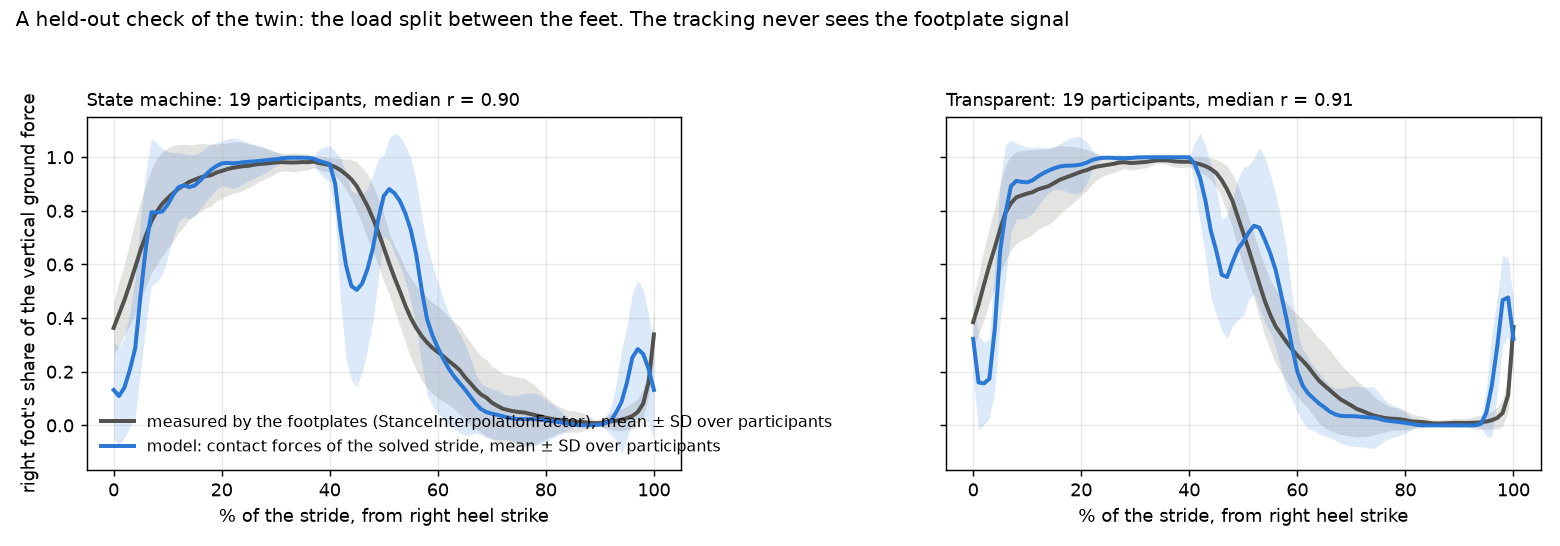
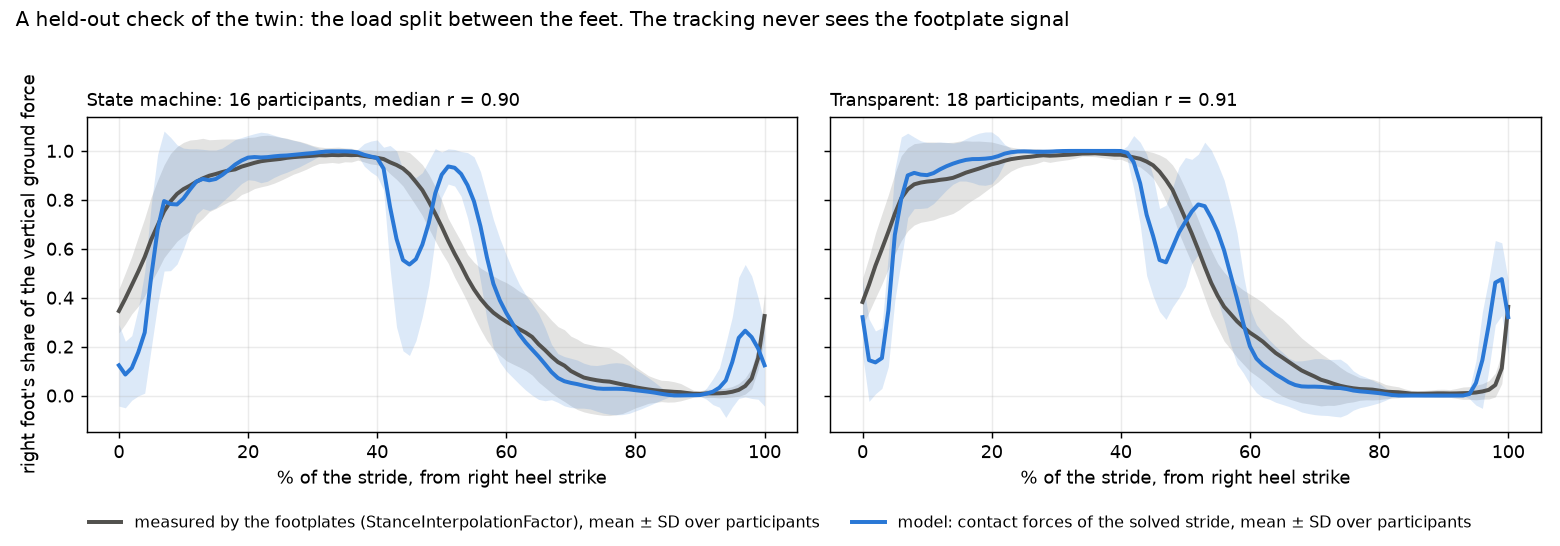
K6: the load-split check on the 34 valid walking solves; notes
r 0.90 (median; 0.70-0.97) between the model's and the footplates' right-foot share
of the vertical force. Single support is right; the hand-over between the feet
bounces in the model. StanceInterpolationFactor is the right foot's share in the data.

diff --git a/src/exogait/track.py b/src/exogait/track.py
@@ -466,11 +466,16 @@ def load_split(subj, cond, n_mesh=50, case="measured"):
 
 
 def load_splits(n_mesh=50):
-    """K6: load_split() for every `measured` walking solve -> moco/load_split.csv and figures/k6_load_split.png."""
+    """K6: load_split() for every `measured` walking solve that passes K5's checks -> moco/load_split.csv and
+    figures/k6_load_split.png."""
     import matplotlib.pyplot as plt
     rows, curves = [], {c: [] for c in x2model.WALKING}
-    for f in sorted(MOCO.glob(f"*_WALKING_mean_measured_m{n_mesh}.sto")):
-        subj, cond = f.name[:4], f.name[5:].split("_mean_")[0]
+    with open(MOCO / "summary.csv") as f:   # the last row per solve says whether it passed K5's checks
+        verdict = {(r["participant"], r["condition"]): r["check"] for r in csv.DictReader(f)
+                   if r["case"] == "measured" and int(r["n_mesh"]) == n_mesh}
+    for (subj, cond), check in sorted(verdict.items()):
+        if check != "ok" or cond not in x2model.WALKING:
+            continue
         m, sd, share = load_split(subj, cond, n_mesh)
         rows.append(dict(participant=subj, condition=cond, r=round(float(np.corrcoef(m, share)[0, 1]), 3),
                          rmse=round(float(np.sqrt(np.mean((m - share) ** 2))), 3), stride_sd=round(float(sd.mean()), 3),
@@ -492,9 +497,9 @@ def load_splits(n_mesh=50):
         ax.set_xlabel("% of the stride, from right heel strike")
         ax.grid(alpha=0.25)
     axs[0].set_ylabel("right foot's share of the vertical ground force")
-    axs[0].legend(frameon=False, fontsize=9, loc="lower left")
+    fig.legend(*axs[0].get_legend_handles_labels(), loc="lower center", ncol=2, frameon=False, fontsize=9)
     fig.suptitle("A held-out check of the twin: the load split between the feet. The tracking never sees the footplate signal", fontsize=11, x=0.01, ha="left")
-    fig.tight_layout(rect=(0, 0, 1, 0.94))
+    fig.tight_layout(rect=(0, 0.07, 1, 0.94), w_pad=1.5)
     png = x2model.ROOT / "figures" / "k6_load_split.png"
     fig.savefig(png, dpi=130)
     plt.close(fig)

diff --git a/notes/observations.md b/notes/observations.md
@@ -733,8 +733,10 @@ releases those recordings: the ExoGait data.)
   leans on, and of how slow this walking is.
 - **AB and HL are the two sites** (J1 Q12): "AB" was recorded in the U.S.A., "HL" in Spain. Not
   clinical groups.
-- **`StanceInterpolationFactor` is a measurement of load** (J1 Q11): the left foot's share of
+- **`StanceInterpolationFactor` is a measurement of load** (J1 Q11): one foot's share of
   the vertical ground reaction force, from 32 force-sensitive resistors in the two footplates.
+  (The paper's text reads as the left foot's. In the data it is the right foot's: 1 in right
+  single support.)
   The controller computes it online at 333 Hz, and switches gait state on a hip-angle
   threshold and on this factor (threshold 0.2). So `stance_alpha` and `gait_state` are
   online signals, not offline like `gait_cycle`. Two consequences:
@@ -742,7 +744,8 @@ releases those recordings: the ExoGait data.)
   - **ExoGait does carry ground-reaction information after all**: not forces, but the
     left-right split of the vertical force through the stride. K5's solutions predict that
     split from the contact model, so it can be checked against the measurement. Nothing in the
-    tracking uses it, which makes it a held-out test of the twin. Not done yet.
+    tracking uses it, which makes it a held-out test of the twin. Done: "K6: a held-out check"
+    below.
 - **Heel strikes** come from the footplate sensors, and `gait_cycle` is interpolated between
   them, as assumed (offline).
 - **SM parameter units** (J1 Q3): stiffness in Nm/rad, damping in Nm·s/rad. Starting values per
@@ -805,6 +808,35 @@ All numbers here are on the **validation blocks**, all 19 participants. The test
     two legs' angles and velocities, the gait state and the load split: it can read them off.
   - Cost: the random forest's val run took 22 minutes, bagged trees 71 (8 threads). Inference
     0.6–0.7 ms per stride, against 0.06 for ridge.
+
+### K6: a held-out check of the twin: the load split between the feet (`track.py load`, 2026-11-11)
+
+ExoGait has no ground reaction forces, but `StanceInterpolationFactor` is one foot's share of
+the vertical force, measured by the footplates (J1b). In the data it is the **right** foot's
+share: 1 in right single support, 0 in left. The tracking never sees it, so it tests what the
+twin had to make up: its contact forces.
+
+- **Method.** For each `measured` walking solve that passes K5's checks (34: SM 16, TR 18), the
+  model's share is right / (right + left) vertical contact force along the solved stride. The
+  measured one is the mean of `stance_alpha` over the participant's kept right strides of that
+  condition. Both on 101 points, compared by correlation and RMSE.
+- **Result.** r = 0.90 (median; quartiles 0.86–0.92; range 0.70–0.97). RMSE 0.19 of the share
+  (0.12–0.29), where the measured share itself varies by 0.09 from stride to stride. SM and TR
+  alike (r 0.90 and 0.91). Lowest: AB75 SM (0.70), the slowest walker, and AB73 SM (0.78).
+- **Where it is right:** both single-support phases, and when each begins and ends. The model
+  walks at its own speed and puts its feet down at its own instants, and they agree with the
+  footplates (`figures/k6_load_split.png`).
+- **Where it is wrong: the hand-over.** In the data the load moves smoothly from one foot to the
+  other over about a third of the stride. In the model the incoming foot takes half the load
+  at once when it lands, gives most of it back, and only then takes over: a bounce at about
+  45–50% of the stride, and a smaller one just before the right heel strike. At the right heel
+  strike itself the footplates already read 0.35, the model 0.02 in SM (0.36 in TR).
+  - This is the contact model (four stiff spheres under rigid feet with a welded toe joint), not
+    the tracking. It is the first measured evidence of what the twin's ground forces get wrong,
+    and it bears on effort: a bounce is paid for by muscles.
+  - It also says the measured share could be tracked (a `MocoContactTrackingGoal`-like term on
+    the split), which would constrain the one thing the solve is free to invent. Not done.
+- `results/exogait/moco/load_split.csv` has a row per solve.
 
 ---
 

diff --git a/docs/KURIAN_TASKS.md b/docs/KURIAN_TASKS.md
@@ -72,7 +72,7 @@ One flat package, `src/exogait/`. One file per job, each with an assert-based se
 | `evaluate.py` | J5, K3, K9 | scikit-learn | `metrics()`, results writer, H1–H3 ablation loop. Phase mean and ridge by default; forests, GPR and the LSTM with `--models` |
 | `lstm.py` | K3 | torch | LSTM/GRU with `fit`/`predict`, so `evaluate.py` runs it like the sklearn models |
 | `x2model.py` | K4 | opensim | `2D_gait.osim` + X2 masses and hip/knee actuators; X2 → OpenSim coordinates |
-| `track.py` | K5, K6 | opensim | MocoTrack per stride, the exo torque prescribed or chosen (`case`); `params.csv`; joint moments vs X2 torque |
+| `track.py` | K5, K6 | opensim | MocoTrack per stride, the exo torque prescribed or chosen (`case`); `params.csv`; joint moments vs X2 torque; the load split against the footplates |
 | `assist.py` | K7, K8, K9 | opensim | Compares the cases (`none`, `measured`, `optimised`, `ideal`; later `ai`, `emg`), prices the torque budget; the at-scale loop |
 | `animate.py` | K7 | opensim, matplotlib | A solved stride as a film: the model walking, muscles coloured by activation, the exo torque at hip and knee, one panel per case |
 | `emg.py` | J6 | scipy.signal | EMG envelopes per stride (when EMG arrives) |
@@ -341,9 +341,11 @@ Sizes: S = a day or two, M = about a week, L = more than a week.
   2026, Table 2; `models/exogait/participants.csv`, 47–90 kg against the model's 62 kg), so K5–K7
   can be solved again on scaled bodies: about a night (`notes/decisions.md`, 2026-11-10). A fitted
   calibration stays out of scope.
-- **Also left, and new:** check the model's left-right split of the vertical ground force
-  against `StanceInterpolationFactor`, which the paper says is exactly that, measured by the
-  footplates. The tracking never sees it, so it is a held-out test of the twin.
+- **A held-out check, done:** `track.py load` compares the model's left-right split of the
+  vertical ground force with `StanceInterpolationFactor`, which is that split as the footplates
+  measure it. The tracking never sees it. On the 34 valid walking solves r = 0.90 (median;
+  0.70–0.97): single support is right, the hand-over between the feet bounces
+  (`notes/observations.md`, "K6: a held-out check"; `figures/k6_load_split.png`).
 
 ### K7 — AI + Moco integration (RO4, H4) · in progress: `ai` waits for K3
 
@@ -455,6 +457,7 @@ Processed data goes in `data/processed/exogait/` (gitignored, shared as a zip). 
 | `moco/<ID>_<condition>_mean_<case>_m<mesh>.sto` | K5, K7, K8 | — | MocoTrajectory of a mean stride. Single strides later: `<ID>_<stride>_<case>` |
 | `moco/summary.csv` | K5, K7, K8 | solve | see below |
 | `moco/moment_vs_torque.csv` | K6 | participant × condition × joint | RMS of the net joint moment, the muscles' moment, the gauge and the motor torque; the exo's share of the net moment and its correlation with it |
+| `moco/load_split.csv` | K6 | participant × condition | `r, rmse` between the model's and the measured right-foot share of the vertical force, `stride_sd` (the measured share's stride-to-stride SD), both shares at heel strike |
 | `moco/assist.csv` | K7 | participant × condition | effort per case, the changes in %, worst hip/knee RMSE and objective per case, torque rate per actuator, budget used, prices |
 | `params.csv` | K6 | participant | `participant, site, sex, age_y, height_m, mass_kg` (measured: `models/exogait/participants.csv`), `model_mass_kg` (62, generic until the model is scaled), `x2_mass_kg, anthropometry, hip_offset_c_deg`, and per controller: stride counts, stride time, kinematic stride length and speed |
 | `<ID>_emg.csv` | J6 | stride × phase point | `participant, stride, phase`, one column per muscle (normalised envelope) |

diff --git a/docs/model_inputs.md b/docs/model_inputs.md
@@ -31,7 +31,7 @@ time.**
 | `condition_encoded` | — | not carried | The same label as a number |
 | `gait_cycle_left/right` | `phase` (0–100) | **allowed, offline** | Phase is interpolated between heel strikes, so it needs the *next* one (J1 Q4). H2 measures it as information, not as a deployable estimate. Its heel strikes also define the strides |
 | `gait_state_left/right` | `gait_state` (stride leg) | **allowed** | Computed online by the X2's state machine (Lhoste et al. 2026). It encodes phase, so H2's no-phase arm drops it. The other leg's is not carried |
-| `StanceInterpolationFactor` | `stance_alpha` | **allowed** | The left foot's share of the vertical ground force, from the footplate sensors, computed online (Lhoste et al. 2026). It encodes phase, so the no-phase arm drops it |
+| `StanceInterpolationFactor` | `stance_alpha` | **allowed** | One foot's share of the vertical ground force (in the data the right foot's: 1 in right single support), from the footplate sensors, computed online (Lhoste et al. 2026). It encodes phase, so the no-phase arm drops it |
 | `SmoothedStanceInterpolationFactor` | — | not carried | The same signal, smoothed |
 | `step_complete_l/r` | — | used, not carried | Drops the strides the dataset marks incomplete. True on every kept stride |
 | `step_number_l/r` | — | **banned**, not carried | A session step counter: it encodes time order |

diff --git a/docs/JASITH_TASKS.md b/docs/JASITH_TASKS.md
@@ -366,7 +366,7 @@ The plan as it was written:
     *Default: OpenSim on walking, plus ramps on a tilted floor. Stairs stay in the AI models (J5,
     K3), which need no musculoskeletal model.*
 11. **Gait state and stance factor.** **Answered by the paper: online.** The stance factor is
-    the left foot's share of the vertical force on the footplate sensors, and the state machine
+    one foot's share of the vertical force on the footplate sensors, and the state machine
     switches on it. No longer a question for the mentor. As asked: are `gait_state_*` and
     `StanceInterpolationFactor`
     computed online by the X2's state machine, or after the fact like `gait_cycle`?
